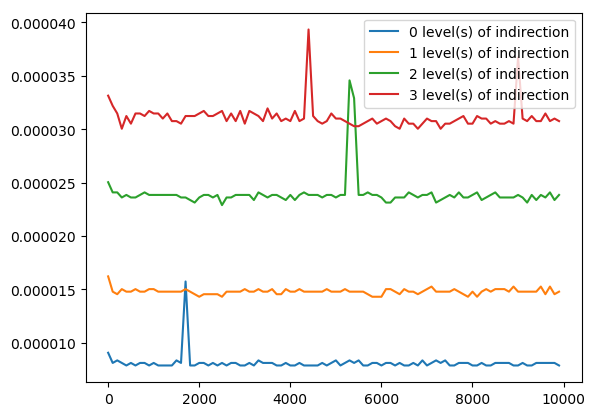
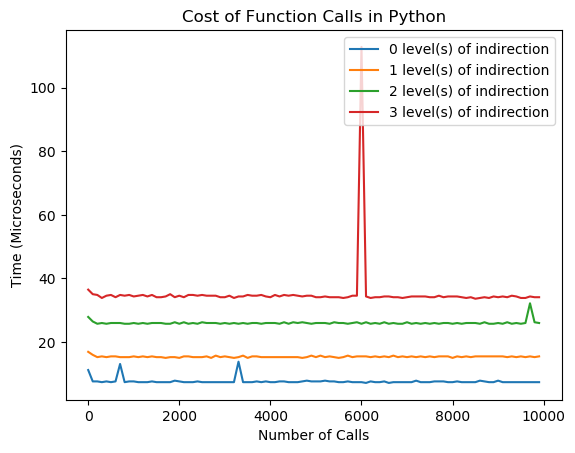
Finished 2nd section of README

diff --git a/func_test.py b/func_test.py
@@ -1,5 +1,6 @@
 import time
 import matplotlib.pyplot as plt
+import numpy as np
 
 def f():
 	return
@@ -29,8 +30,13 @@ funcs = [f, g, h, j]
 def plot_func_times(funcs, iters):
 	for func_i in range(len(funcs)):
 		func_times = time_func(funcs[func_i], iters)
+		func_times = np.array(func_times)*1e6
 		plt.plot(iters, func_times, label=(str(func_i) + ' level(s) of indirection'))
 	plt.legend(loc='upper right')
 
 plot_func_times(funcs, iters)
+plt.title("Cost of Function Calls in Python")
+plt.xlabel("Number of Calls")
+plt.ylabel("Time (Microseconds)")
 plt.savefig("function_calls.png", bbox_inches='tight')
+# plt.show()

diff --git a/README.md b/README.md
@@ -58,4 +58,16 @@ This was because each Python list had to be broadcasted into a Numpy array. If w
 
 ![alt-text](https://github.com/edwisdom/python-prof/blob/master/means2.png)
 
+## Function Calls
+
+I had a number of functions that could've probably been combined together, if not for my desire to avoid hours debugging monstrously unmodular code. Before I decided to go gung-ho with the clean abstractions, I wanted to know exactly how expensive function calls were in Python. 
+
+![alt-text](https://github.com/edwisdom/python-prof/blob/master/function_calls.png)
+
+Turns out, it's about 10 microseconds added per level of indirection. This also explains why certain functional tools, like reduce, are discouraged in Python.
+
+## More to Come...
+
+As I learn more in my time profiling Python code, I will add more sections here. 
+
 
